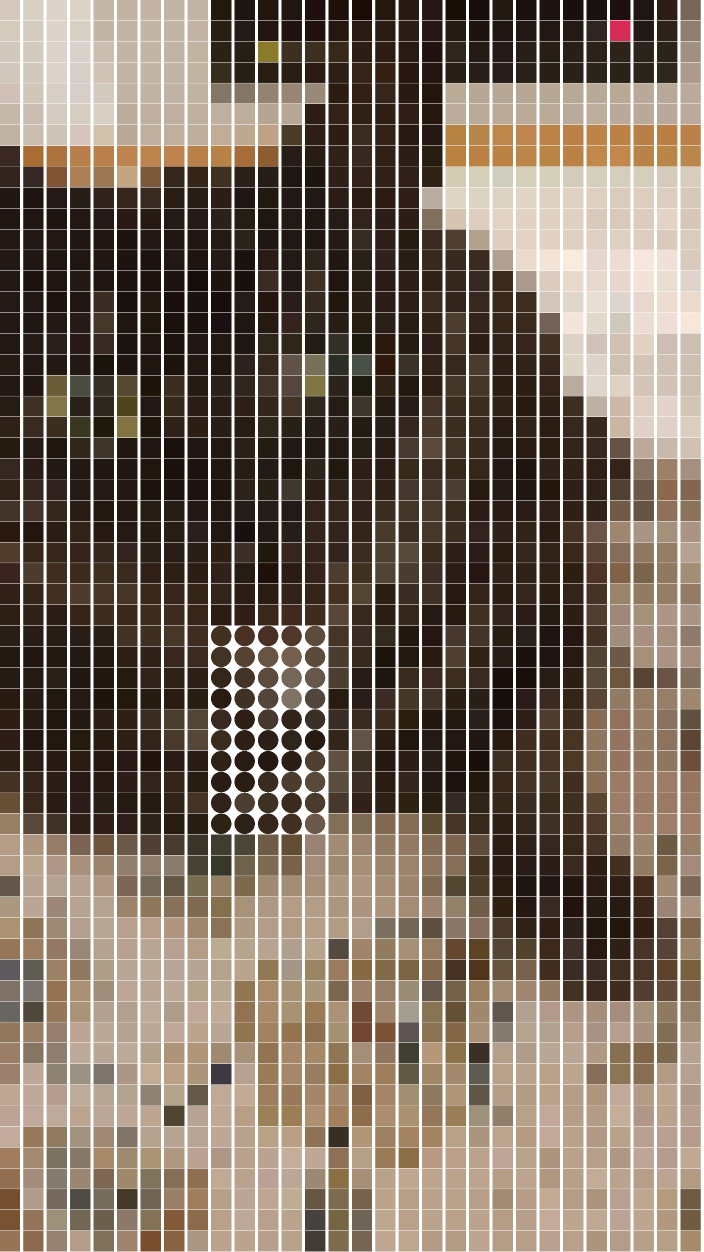
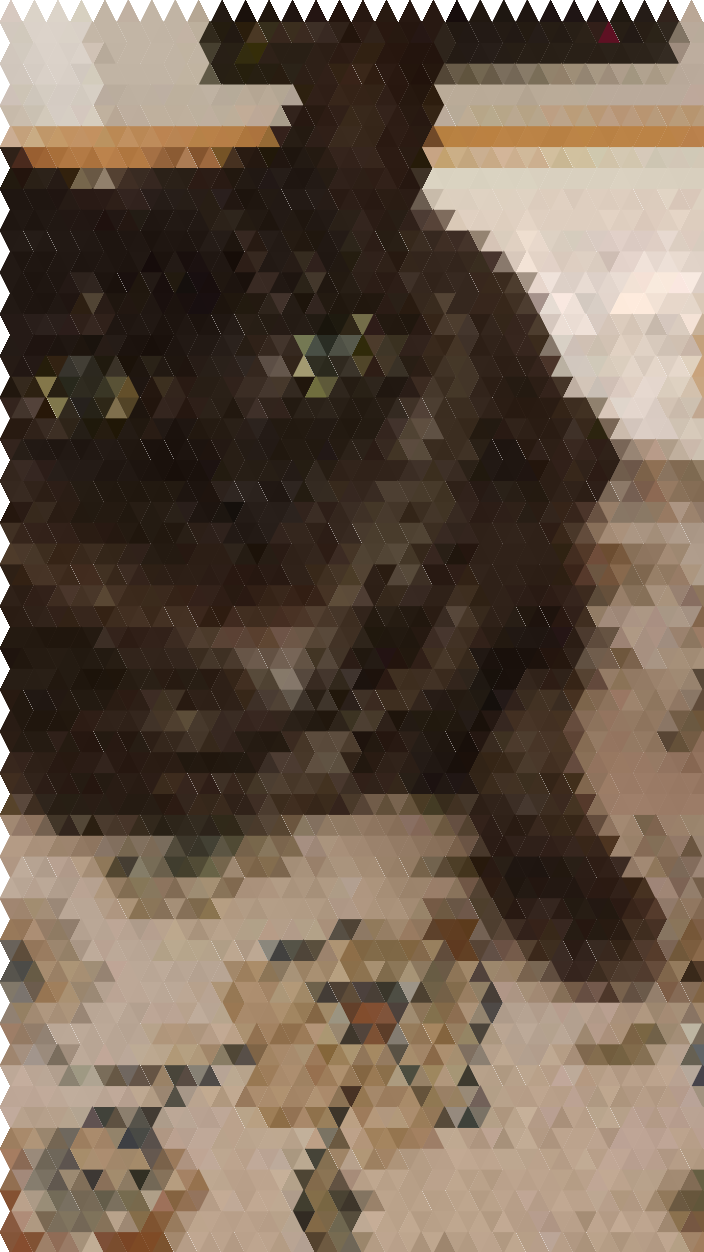
diamons

diff --git a/sketch.js b/sketch.js
@@ -6,7 +6,7 @@ let sourceFile = "input_1.jpg";
 let maskFile   = "mask_1.png";
 let outputFile = "artwork_1.png";
 
-let colourThresh = 100;
+let colourThresh = 10;
 
 function preload() {
   sourceImg = loadImage(sourceFile);
@@ -26,8 +26,40 @@ function setup () {
 
 function draw () {
 //35 by 62
+for(let i=0;i<30;i++) {
+    for(let j=0; j< 60; j++){
+    let x = i*(sourceImg.width/30);
+    let y = j*(sourceImg.height/60);    
+    let mask = maskImg.get(x, y);
+    let pointSize = 11;
+    let halfSize = 50;
+   // fill(pix);    
+
+  
+    if(j % 2 == 0){ //if even X line
+      let pix = sourceImg.get(x+pointSize, y+pointSize);
+      fill(pix);
+      triangle(x+pointSize, y, x, y+(2*pointSize), x+(2*pointSize), y+(2*pointSize));
+
+      pix = sourceImg.get(x+pointSize, y+(3*pointSize));
+      fill(pix);
+      triangle(x+pointSize, y+(4*pointSize), x, y+(2*pointSize), x+(2*pointSize), y+(2*pointSize));
+
+    } else {
+      let pix = sourceImg.get(x+(2*pointSize), y+pointSize);
+      fill(pix);
+      triangle(x+(2*pointSize), y, x+(pointSize), y+(2*pointSize), x+(3*pointSize), y+(2*pointSize));
+
+      pix = sourceImg.get(x+(2*pointSize), y+(3*pointSize));
+      fill(pix);
+      triangle(x+(2*pointSize), y+(4*pointSize), x+(pointSize), y+(2*pointSize), x+(3*pointSize), y+(2*pointSize));
 
 
+    }
+  }
+  }
+
+/*
   for(let i=0;i<30;i++) {
     for(let j=0; j< 60; j++){
     let x = i*(sourceImg.width/30);
@@ -36,36 +68,15 @@ function draw () {
     let pointSize = 11;
     let halfSize = 50;
    // fill(pix);    
-   let savedPix = color(0, 0, 0);
+
+  
     if(j % 2 == 0){ //if even X line
       let pix = sourceImg.get(x+pointSize, y+pointSize);
-     
-     if((red(pix) > red(savedPix)-colourThresh && red(pix) < red(savedPix)+colourThresh)
-          && (green(pix) > green(savedPix)-colourThresh && green(pix) < green(savedPix)+colourThresh)
-          && (blue(pix) > blue(savedPix)-colourThresh && blue(pix) < blue(savedPix)+colourThresh)
-          ){
-           noStroke();
-        }
-         else {
-          stroke(0);
-         }
-         savedPix = pix;
-         fill(pix);
-
+      fill(pix);
       triangle(x+pointSize, y, x, y+(2*pointSize), x+(2*pointSize), y+(2*pointSize));
     } else {
       let pix = sourceImg.get(x+(2*pointSize), y+pointSize);
-      if((red(pix) > red(savedPix)-colourThresh && red(pix) < red(savedPix)+colourThresh)
-          && (green(pix) > green(savedPix)-colourThresh && green(pix) < green(savedPix)+colourThresh)
-          && (blue(pix) > blue(savedPix)-colourThresh && blue(pix) < blue(savedPix)+colourThresh)
-          ){
-           noStroke();
-        }
-         else {
-          stroke(0);
-         }
-         savedPix = pix;
-        fill(pix);
+      fill(pix);
       triangle(x+(2*pointSize), y, x+(pointSize), y+(2*pointSize), x+(3*pointSize), y+(2*pointSize));
     }
   }
@@ -80,41 +91,19 @@ function draw () {
 
       let savedPix = color(0, 0, 0);
      // fill(pix);    
-      if(j % 2 == 0){ //if even X line
-
-        
+      if(j % 2 == 0){      
         let pix = sourceImg.get(x+(2*pointSize), y+pointSize);
-        if((red(pix) > red(savedPix)-colourThresh && red(pix) < red(savedPix)+colourThresh)
-          && (green(pix) > green(savedPix)-colourThresh && green(pix) < green(savedPix)+colourThresh)
-          && (blue(pix) > blue(savedPix)-colourThresh && blue(pix) < blue(savedPix)+colourThresh)
-          ){
-           noStroke();
-        }
-         else {
-          stroke(0);
-         }
-         savedPix = pix;
         fill(pix);
         triangle(x+(2*pointSize), y+(2*pointSize), x+(pointSize), y, x+(3*pointSize), y);
       } else {   
-        
+        noStroke();
         let pix = sourceImg.get(x+pointSize, y+pointSize);
-        if((red(pix) > red(savedPix)-colourThresh && red(pix) < red(savedPix)+colourThresh)
-          && (green(pix) > green(savedPix)-colourThresh && green(pix) < green(savedPix)+colourThresh)
-          && (blue(pix) > blue(savedPix)-colourThresh && blue(pix) < blue(savedPix)+colourThresh)
-          ){
-           noStroke();
-        }
-         else {
-          stroke(0);
-         }
-         savedPix = pix;
         fill(pix);
         triangle(x+pointSize, y+(2*pointSize), x, y, x+(2*pointSize), y);
       }
   }
   }
-
+*/
   /*
   for(let i=0;i<2000;i++) {
 
@@ -139,7 +128,7 @@ function draw () {
     console.log("Done!")
     noLoop();
     // uncomment this to save the result
-   // saveArtworkImage(outputFile);
+    saveArtworkImage(outputFile);
   }
 }
 
